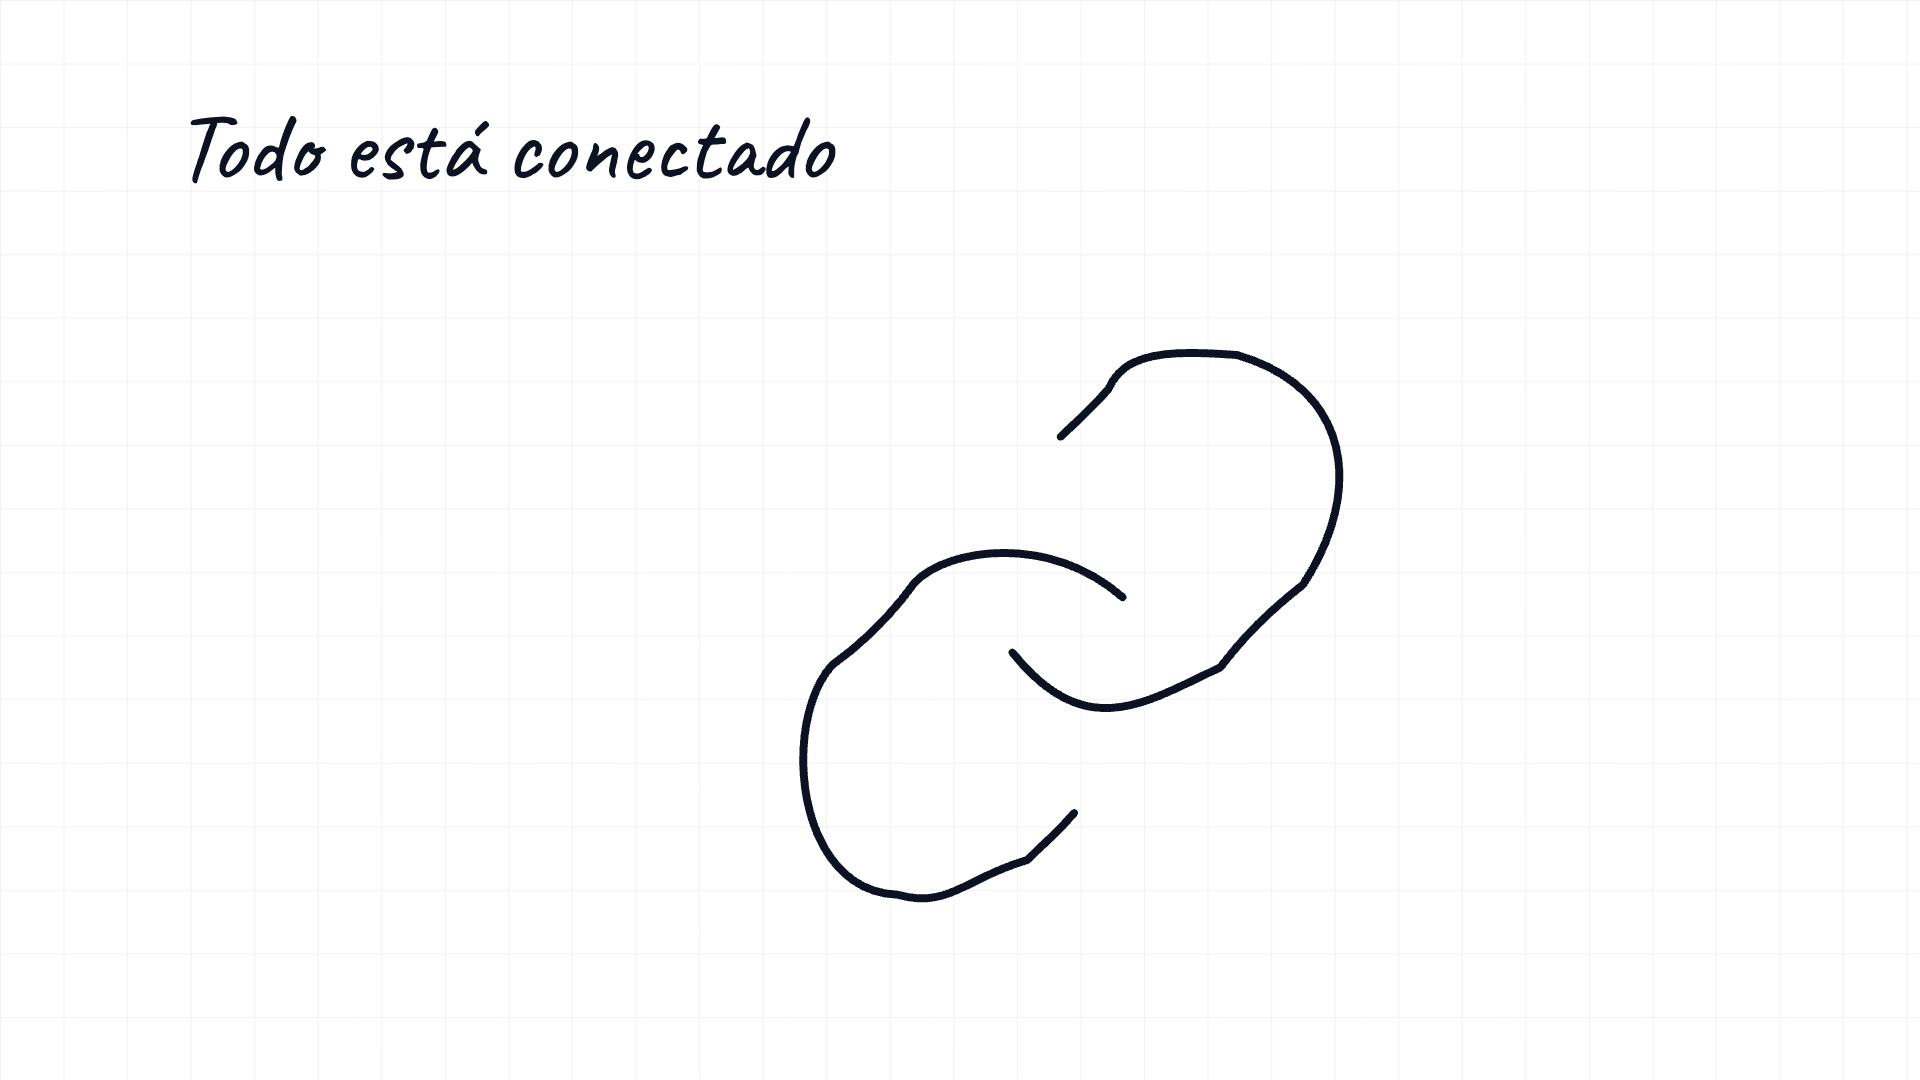
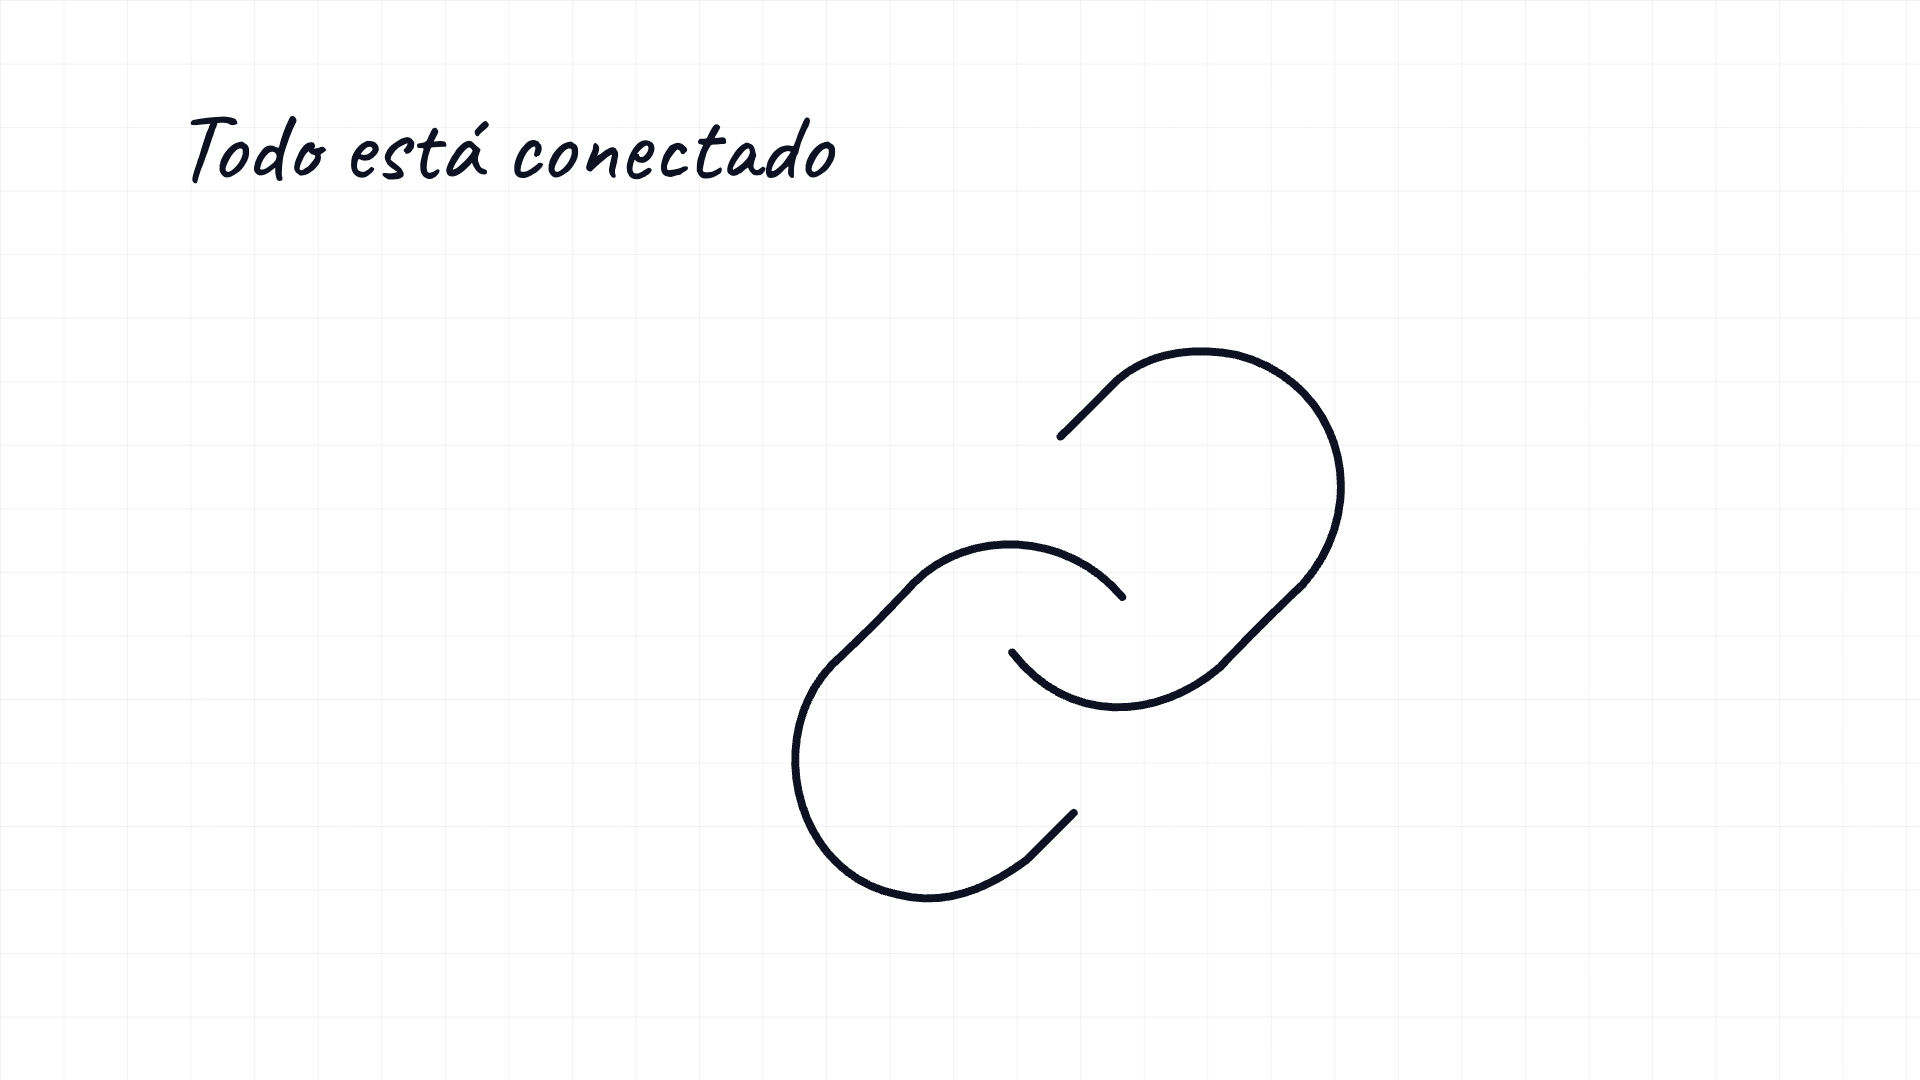
Tarea 3: la rugosidad se pide en píxeles de tablero, no en unidades del icono
El eslabón no se abollaba por tener demasiada rugosidad, sino por un error de
unidades. El desplazamiento de Rough.js es absoluto en el espacio de
coordenadas del path, y un icono se escribe en una rejilla de 24 unidades y
después se escala hasta llenar su slot. Un `roughness: 0.5` sobre un dibujo de
583px son por tanto 24px de ruido en el tablero — suficiente para aplanar los
arcos del eslabón hasta convertirlo en un borrón — mientras que el mismo 0.5
sobre uno de 120px son 5px. El mismo número significaba dos dibujos distintos.
`strokeWidth` ya compensaba esa escala; la rugosidad no.

- `RoughOptions.unitScale`: cuántos píxeles de tablero vale una unidad del
  espacio del path. Con eso, `roughness` se deriva de `WOBBLE_PX` en lugar de
  adivinarse. Todo lo que se dibuja en su propia rejilla y luego se escala —
  iconos y viñetas — lo pasa; lo que ya está en píxeles de tablero lo deja en 1.
- `bowing` no necesita el mismo tratamiento: Rough.js lo escala por la longitud
  del segmento, así que ya es relativo. Se queda como estaba.
- La amplitud no es del todo constante tampoco: sigue la raíz cuadrada del
  tamaño del trazo, acotada entre 0.3× y 1.9×. Crece, pero mucho más despacio
  que el dibujo, que es lo que produce una mano que no se vuelve más temblorosa.
  Ese es el otro medio motivo por el que el eslabón se abollaba: sus arcos son
  pequeños respecto al dibujo en el que viven.
- Semilla derivada del path y `disableMultiStroke` intactos. El caché ahora se
[…]

diff --git a/lib/engine/rough.ts b/lib/engine/rough.ts
@@ -19,6 +19,78 @@
 import rough from "roughjs";
 import type { Options } from "roughjs/bin/core";
 
+import { clamp } from "@/lib/engine/motion";
+import { samplePath } from "@/lib/engine/path-sampling";
+
+/* -------------------------------------------------------------------------- */
+/*                                 The wobble                                 */
+/* -------------------------------------------------------------------------- */
+
+/**
+ * How far the line strays from where it was going, in **board pixels**.
+ *
+ * Board pixels is the whole point. Rough.js's displacement is absolute in
+ * whatever coordinate space the path is written in, and an icon is written on a
+ * 24-unit grid and then blown up to fill its slot. A `roughness` of 0.5 on a
+ * 583px drawing is therefore 24px of noise on the board — enough to flatten the
+ * arcs of a link into a blob — while the same 0.5 on a 120px one is 5px. The
+ * same number meant two completely different drawings.
+ *
+ * A marker's tremor does not grow with the size of what it is drawing, so this
+ * is a constant and the local `roughness` is derived from it.
+ */
+const WOBBLE_PX = 3.2;
+
+/** Units of displacement Rough.js applies per unit of `roughness`. */
+const RANDOMNESS_UNITS = 2;
+
+const MIN_ROUGHNESS = 0.02;
+const MAX_ROUGHNESS = 1.1;
+
+/**
+ * The size of stroke `WOBBLE_PX` is calibrated for, on the board.
+ *
+ * Amplitude is not quite constant either. A given offset is a different thing
+ * on a 300px arc and on a 25px one: on the small one it is a sizeable fraction
+ * of the radius and the curve stops closing, which is the second half of what
+ * dents the link — its arcs are small relative to the drawing they sit in. So
+ * the wobble follows the square root of the stroke's size: it grows, but far
+ * slower than the drawing, which is what a hand that is not getting shakier
+ * produces.
+ */
+const WOBBLE_REFERENCE = 110;
+const WOBBLE_GAIN = { min: 0.3, max: 1.9 };
+
+/** The longest side of a path, in the coordinate space it is written in. */
+function extentOf(d: string): number {
+  const { points } = samplePath(d);
+  if (points.length === 0) return Infinity;
+  let minX = Infinity;
+  let minY = Infinity;
+  let maxX = -Infinity;
+  let maxY = -Infinity;
+  for (const point of points) {
+    if (point.x < minX) minX = point.x;
+    if (point.x > maxX) maxX = point.x;
+    if (point.y < minY) minY = point.y;
+    if (point.y > maxY) maxY = point.y;
+  }
+  return Math.max(maxX - minX, maxY - minY);
+}
+
+/**
+ * The `roughness` that produces `WOBBLE_PX` of board-space wobble on a path
+ * written at `unitScale` board pixels per coordinate unit.
+ */
+function roughnessFor(d: string, unitScale: number): number {
+  const extent = extentOf(d) * unitScale;
+  const gain = Number.isFinite(extent)
+    ? clamp(Math.sqrt(extent / WOBBLE_REFERENCE), WOBBLE_GAIN.min, WOBBLE_GAIN.max)
+    : 1;
+  const wanted = (WOBBLE_PX * gain) / (RANDOMNESS_UNITS * Math.max(unitScale, 1e-6));
+  return clamp(wanted, MIN_ROUGHNESS, MAX_ROUGHNESS);
+}
+
 function seedFrom(value: string): number {
   let hash = 0;
   for (let i = 0; i < value.length; i += 1) {
@@ -35,16 +107,30 @@ export interface RoughOptions {
   roughness?: number;
   bowing?: number;
   strokeWidth?: number;
+  /**
+   * Board pixels one unit of this path's coordinate space becomes.
+   *
+   * Pass it and the roughness is worked out from `WOBBLE_PX` instead of being
+   * guessed at — which is what anything drawn on its own grid and then scaled
+   * (every icon) has to do. Board-space paths leave it at 1.
+   *
+   * `bowing` needs no such treatment: Rough.js scales it by the length of the
+   * segment, so it is already relative.
+   */
+  unitScale?: number;
 }
 
 /** Converts one path into its single-stroke, hand-drawn equivalent. */
 export function roughPath(d: string, options: RoughOptions = {}): string[] {
-  const key = `${d}|${options.roughness ?? ""}|${options.bowing ?? ""}|${options.strokeWidth ?? ""}`;
+  const roughness =
+    options.roughness ?? roughnessFor(d, options.unitScale ?? 1);
+
+  const key = `${d}|${roughness.toFixed(4)}|${options.bowing ?? ""}|${options.strokeWidth ?? ""}`;
   const cached = cache.get(key);
   if (cached) return cached;
 
   const config: Options = {
-    roughness: options.roughness ?? 1,
+    roughness,
     bowing: options.bowing ?? 1.2,
     strokeWidth: options.strokeWidth ?? 1.6,
     seed: seedFrom(d),

diff --git a/lib/engine/plan.ts b/lib/engine/plan.ts
@@ -183,7 +183,7 @@ function measureBullet(
           : {
               kind: "strokes",
               paths: roughPath(BULLET_GLYPHS[element.marker ?? "dot"] ?? BULLET_GLYPHS.dot, {
-                roughness: 0.4,
+                unitScale: markerSize / ICON_VIEWBOX,
                 bowing: 0.3,
               }),
               viewBox: { w: ICON_VIEWBOX, h: ICON_VIEWBOX },
@@ -232,7 +232,7 @@ function buildVisual(element: VisualElement, region: Box, scale: number) {
   // Ordered before Rough.js expands each path, so the hand works its way
   // around the shape instead of hopping across it in the designer's order.
   const paths = orderPaths(ICON_PATHS[element.id] ?? []).flatMap((d) =>
-    roughPath(d, { roughness: 0.5, bowing: 0.6, strokeWidth: 0.9 }),
+    roughPath(d, { unitScale: size / ICON_VIEWBOX, bowing: 0.6, strokeWidth: 0.9 }),
   );
   const parts: Part[] = [
     {

diff --git a/lib/engine/emphasis.ts b/lib/engine/emphasis.ts
@@ -188,7 +188,7 @@ function shapePaths(
     }
 
     case "box":
-      return roughRect(x - pad, y - pad, w + pad * 2, h + pad * 2, { roughness: 0.8 });
+      return roughRect(x - pad, y - pad, w + pad * 2, h + pad * 2);
 
     case "circle": {
       // A long, low target cannot be ringed without the ring becoming a band.
@@ -198,7 +198,7 @@ function shapePaths(
         y + h / 2,
         (w / 2) * CIRCLE_GROW + pad,
         (h / 2) * CIRCLE_GROW + pad,
-        { roughness: 0.8, bowing: 0.9 },
+        { bowing: 0.9 },
       );
     }
 

diff --git a/lib/engine/sketch.ts b/lib/engine/sketch.ts
@@ -71,7 +71,9 @@ type Point = [number, number];
 
 function iconPart(id: string, frame: Box, color?: MarkColor): StrokePart {
   const paths = orderPaths(ICON_PATHS[id] ?? []).flatMap((d) =>
-    roughPath(d, { roughness: 0.5, bowing: 0.6, strokeWidth: 0.9 }),
+    // The paths are on the 24-unit grid and end up `frame.w` wide, so the
+    // wobble has to be asked for in board pixels rather than in grid units.
+    roughPath(d, { unitScale: frame.w / ICON_VIEWBOX, bowing: 0.6, strokeWidth: 0.9 }),
   );
   return {
     kind: "strokes",
